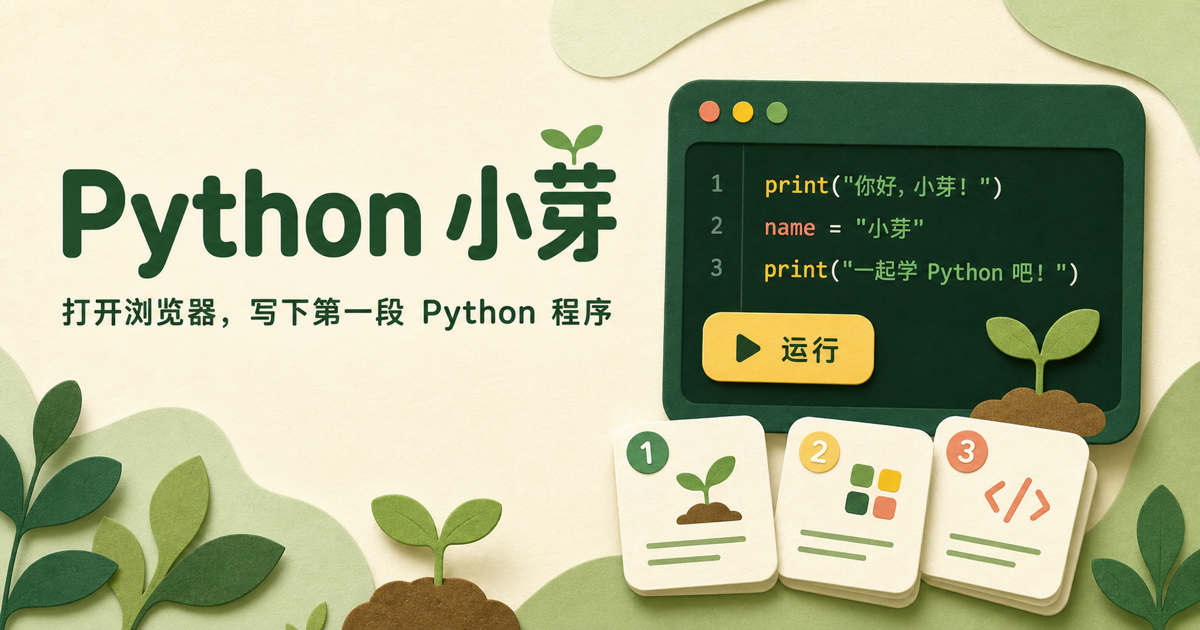
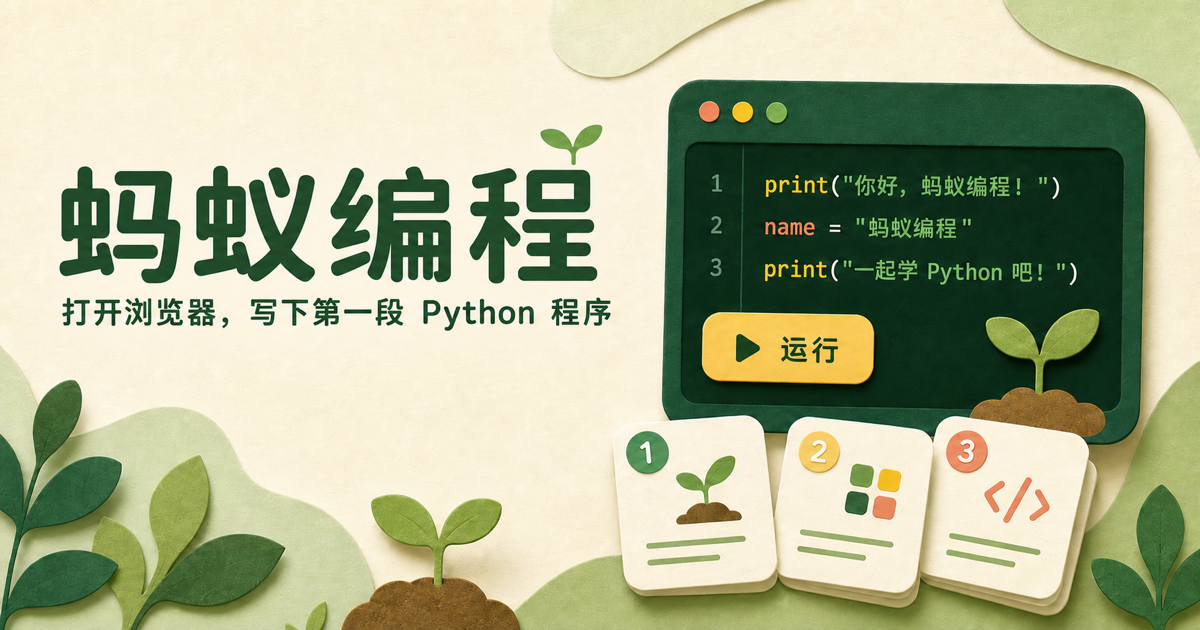
Prepare two-stage V1 learning experience

diff --git a/python-online/src/PythonStudio.tsx b/python-online/src/PythonStudio.tsx
@@ -14,15 +14,7 @@ type Lesson = {
   inputs?: string;
 };
 
-type LearningTab = "knowledge" | "practice" | "quiz" | "assignment";
-
-type QuizQuestion = {
-  id: string;
-  question: string;
-  options: string[];
-  answer: number;
-  explanation: string;
-};
+type LearningTab = "knowledge" | "practice" | "assignment";
 
 type MonacoEditor = {
   getValue: () => string;
@@ -175,31 +167,6 @@ const lessons: Lesson[] = [
 const learningTabs: Array<{ id: LearningTab; label: string; icon: string }> = [
   { id: "knowledge", label: "知识讲解", icon: "▶" },
   { id: "practice", label: "代码练习", icon: "</>" },
-  { id: "quiz", label: "语法小测", icon: "✓" },
-];
-
-const quizQuestions: QuizQuestion[] = [
-  {
-    id: "value-type",
-    question: "下面哪个选项是 Python 中常见的变量类型？",
-    options: ["字符串 str", "文件夹 folder", "画笔 brush", "网页 page"],
-    answer: 0,
-    explanation: "str 表示字符串，用来保存姓名、句子等文字内容。",
-  },
-  {
-    id: "print",
-    question: "想让电脑在屏幕上显示一句话，应该使用哪个命令？",
-    options: ["show()", "say()", "print()", "writeword()"],
-    answer: 2,
-    explanation: "print() 是 Python 中最常用的输出命令。",
-  },
-  {
-    id: "variable-name",
-    question: "下面哪个变量名写法是正确的？",
-    options: ["1name", "my-name", "my_name", "我的 name"],
-    answer: 2,
-    explanation: "变量名可以使用字母、数字和下划线，但不能以数字开头。",
-  },
 ];
 
 const MONACO_BASE = "https://cdn.jsdelivr.net/npm/monaco-editor@0.55.1/min/vs";
@@ -377,7 +344,6 @@ export default function PythonStudio() {
   const [editorState, setEditorState] = useState<"loading" | "ready" | "fallback">("loading");
   const [completed, setCompleted] = useState<string[]>([]);
   const [showHints, setShowHints] = useState(false);
-  const [quizAnswers, setQuizAnswers] = useState<Record<string, number>>({});
   const [isCompact, setIsCompact] = useState(false);
 
   const lesson = useMemo(
@@ -618,7 +584,6 @@ export default function PythonStudio() {
     selectedIdRef.current = nextLesson.id;
     setSelectedId(nextLesson.id);
     setShowHints(false);
-    setQuizAnswers({});
     const nextCode = localStorage.getItem(`${CODE_KEY_PREFIX}${nextLesson.id}`) ?? nextLesson.starterCode;
     const nextAssignment = localStorage.getItem(`${ASSIGNMENT_KEY_PREFIX}${nextLesson.id}`) ?? "";
     const nextInput = localStorage.getItem(`${INPUT_KEY_PREFIX}${nextLesson.id}`) ?? nextLesson.inputs ?? "";
@@ -780,53 +745,6 @@ export default function PythonStudio() {
                   {lesson.number === 1 ? "跟着视频认识第一行 Python 代码。" : "本课视频正在制作，当前暂用第一课样片展示播放效果。"}
                 </figcaption>
               </figure>
-            </section>
-          )}
-
-          {activeTab === "quiz" && (
-            <section className="quiz-stage" role="tabpanel" aria-label="语法小测">
-              <div className="stage-heading">
-                <div>
-                  <p className="eyebrow">语法小测</p>
-                  <h2>小小知识挑战</h2>
-                  <p>选择你认为正确的答案，答完马上看到讲解。</p>
-                </div>
-                <span className="quiz-score">
-                  {Object.keys(quizAnswers).length} / {quizQuestions.length} 已作答
-                </span>
-              </div>
-              <div className="quiz-list">
-                {quizQuestions.map((question, questionIndex) => {
-                  const chosen = quizAnswers[question.id];
-                  return (
-                    <fieldset className="quiz-card" key={question.id}>
-                      <legend><span>{questionIndex + 1}</span>{question.question}</legend>
-                      <div className="quiz-options">
-                        {question.options.map((option, optionIndex) => (
-                          <label
-                            className={`${chosen === optionIndex ? "is-selected" : ""} ${chosen !== undefined && optionIndex === question.answer ? "is-correct" : ""}`}
-                            key={option}
-                          >
-                            <input
-                              type="radio"
-                              name={`quiz-${lesson.id}-${question.id}`}
-                              checked={chosen === optionIndex}
-                              onChange={() => setQuizAnswers((previous) => ({ ...previous, [question.id]: optionIndex }))}
-                            />
-                            <span>{String.fromCharCode(65 + optionIndex)}</span>
-                            {option}
-                          </label>
-                        ))}
-                      </div>
-                      {chosen !== undefined && (
-                        <p className={`quiz-feedback ${chosen === question.answer ? "is-correct" : "is-wrong"}`}>
-                          {chosen === question.answer ? "答对啦！" : "再记一遍："} {question.explanation}
-                        </p>
-                      )}
-                    </fieldset>
-                  );
-                })}
-              </div>
             </section>
           )}
 

diff --git a/python-online/index.html b/python-online/index.html
@@ -4,14 +4,14 @@
     <meta charset="UTF-8" />
     <meta name="viewport" content="width=device-width, initial-scale=1.0" />
     <meta name="theme-color" content="#2f7157" />
-    <meta name="description" content="为孩子设计的在线 Python 学习空间，每一课完成知识讲解、代码练习和语法小测。" />
-    <meta property="og:title" content="Python 之旅｜一课一闭环" />
-    <meta property="og:description" content="学、练、测科学闭环，让孩子一步步掌握 Python。" />
+    <meta name="description" content="蚂蚁编程为孩子设计的在线 Python 学习空间，每一课完成知识讲解和代码练习。" />
+    <meta property="og:title" content="Python之旅 | 零基础入门" />
+    <meta property="og:description" content="从零开始学 Python，让孩子在讲解和练习中一步步掌握编程。" />
     <meta property="og:type" content="website" />
     <meta property="og:image" content="http://8.148.201.87/python-online/og.png" />
     <meta name="twitter:card" content="summary_large_image" />
     <link rel="icon" href="./favicon.svg" />
-    <title>Python 之旅｜一课一闭环学 Python</title>
+    <title>Python之旅 | 零基础入门</title>
   </head>
   <body>
     <div id="root"></div>

diff --git a/python-online/src/globals.css b/python-online/src/globals.css
@@ -267,7 +267,7 @@ button { color: inherit; }
   *, *::before, *::after { scroll-behavior: auto !important; animation: none !important; transition: none !important; }
 }
 
-/* One-lesson learning loop: 学 → 练 → 测 */
+/* V1 learning loop: 学 → 练 */
 .topbar {
   height: 76px;
   min-height: 76px;
@@ -286,7 +286,7 @@ button { color: inherit; }
   min-width: 0;
   padding: 0;
   display: grid;
-  grid-template-columns: repeat(3, minmax(0, 1fr));
+  grid-template-columns: repeat(2, minmax(0, 1fr));
   align-self: center;
   gap: 8px;
   border-top: 0;
@@ -540,7 +540,7 @@ button { color: inherit; }
 @media (max-width: 820px) {
   .topbar { min-height: 108px; height: 108px; padding: 5px 10px 0; grid-template-rows: 50px 48px; }
   .brand-block > div { display: none; }
-  .learning-tabs { grid-template-columns: repeat(3, minmax(0, 1fr)); overflow: visible; }
+  .learning-tabs { grid-template-columns: repeat(2, minmax(0, 1fr)); overflow: visible; }
   .learning-tabs button { min-height: 52px; padding: 7px 5px; gap: 5px; font-size: 10px; }
   .learning-tabs button:not(:last-child)::after { display: none; }
   .learning-tabs button > span { width: 22px; height: 22px; font-size: 9px; }

diff --git a/python-online/README.md b/python-online/README.md
@@ -1,4 +1,4 @@
-# Python 小芽
+# 蚂蚁编程
 
 一个为孩子设计的在线 Python 学习平台。无需安装 Python、编辑器或浏览器插件，打开网页即可学习、编写和运行 Python 代码。
 